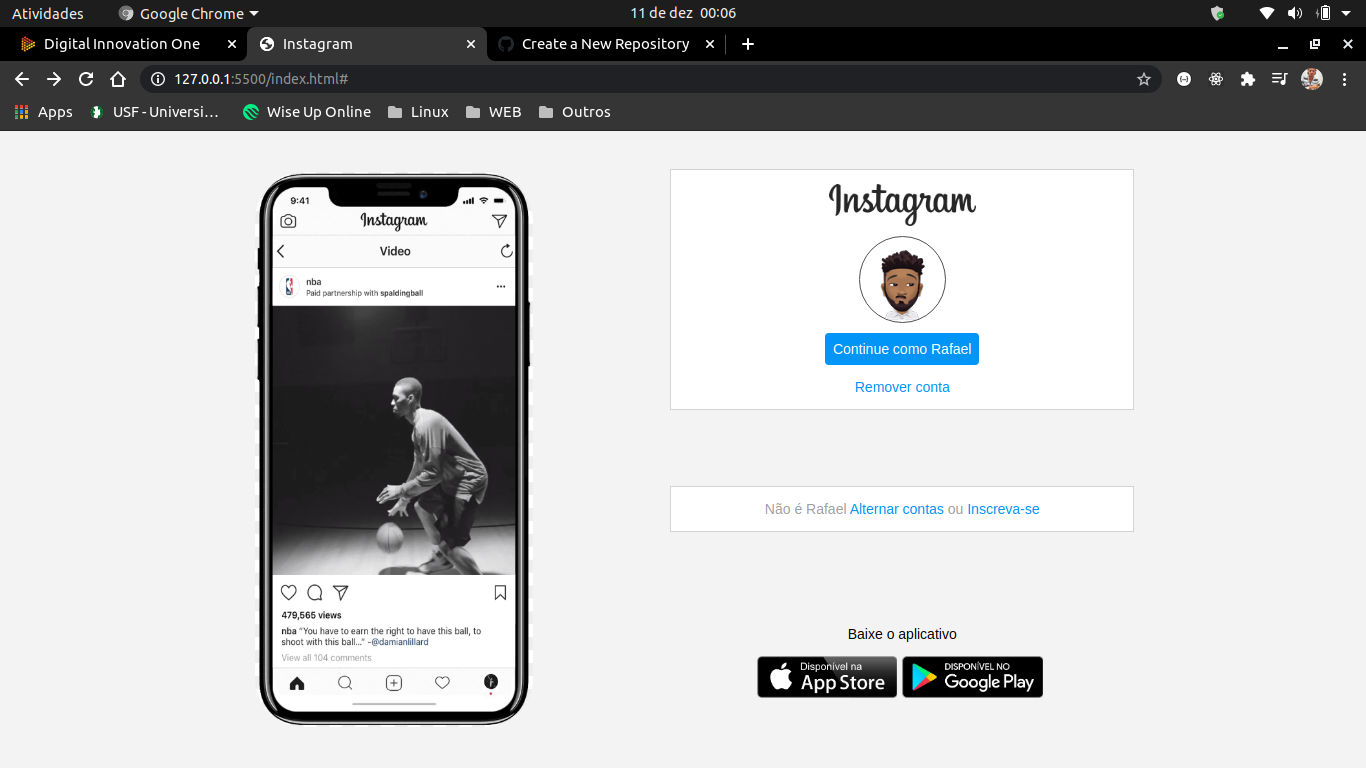
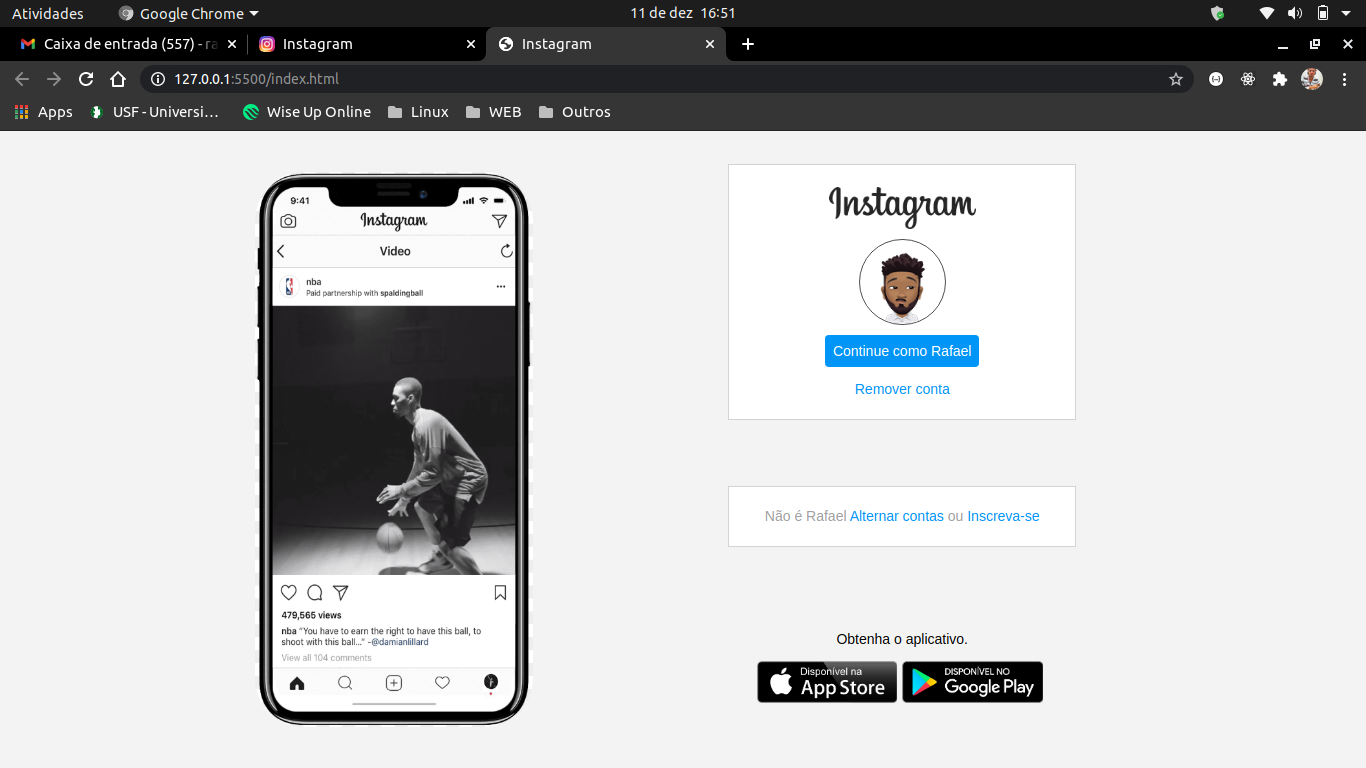
update css, update arquivo na pasta img

diff --git a/css/style.css b/css/style.css
@@ -53,8 +53,8 @@ body {
     align-items: center;
     flex-direction: column;
     background-color: #fff;
-    width: 80%;
-    padding: 1rem 0;
+    width: 60%;
+    padding: 3.4vh 0;
     border: 1px solid lightgrey;
 }
 
@@ -146,7 +146,7 @@ body {
     }
 
     .instagram-wrapper {
-        width: 90%;
+        width: 100%;
     }
 
     .instagram-phone {
@@ -158,6 +158,6 @@ body {
     }
 
     .group {
-        border: 1px solid tr;
+        border: 1px solid #e1d1d1;
     }
 }

diff --git a/index.html b/index.html
@@ -28,7 +28,7 @@
                 </p>  
             </div>
             <div class="get-the-app">
-                <p class="get-app">Baixe o aplicativo</p>
+                <p class="get-app">Obtenha o aplicativo.</p>
                 <div class="download">
                     <a href="#" class="app-download"></a>
                     <a href="#" class="app-download"></a>
